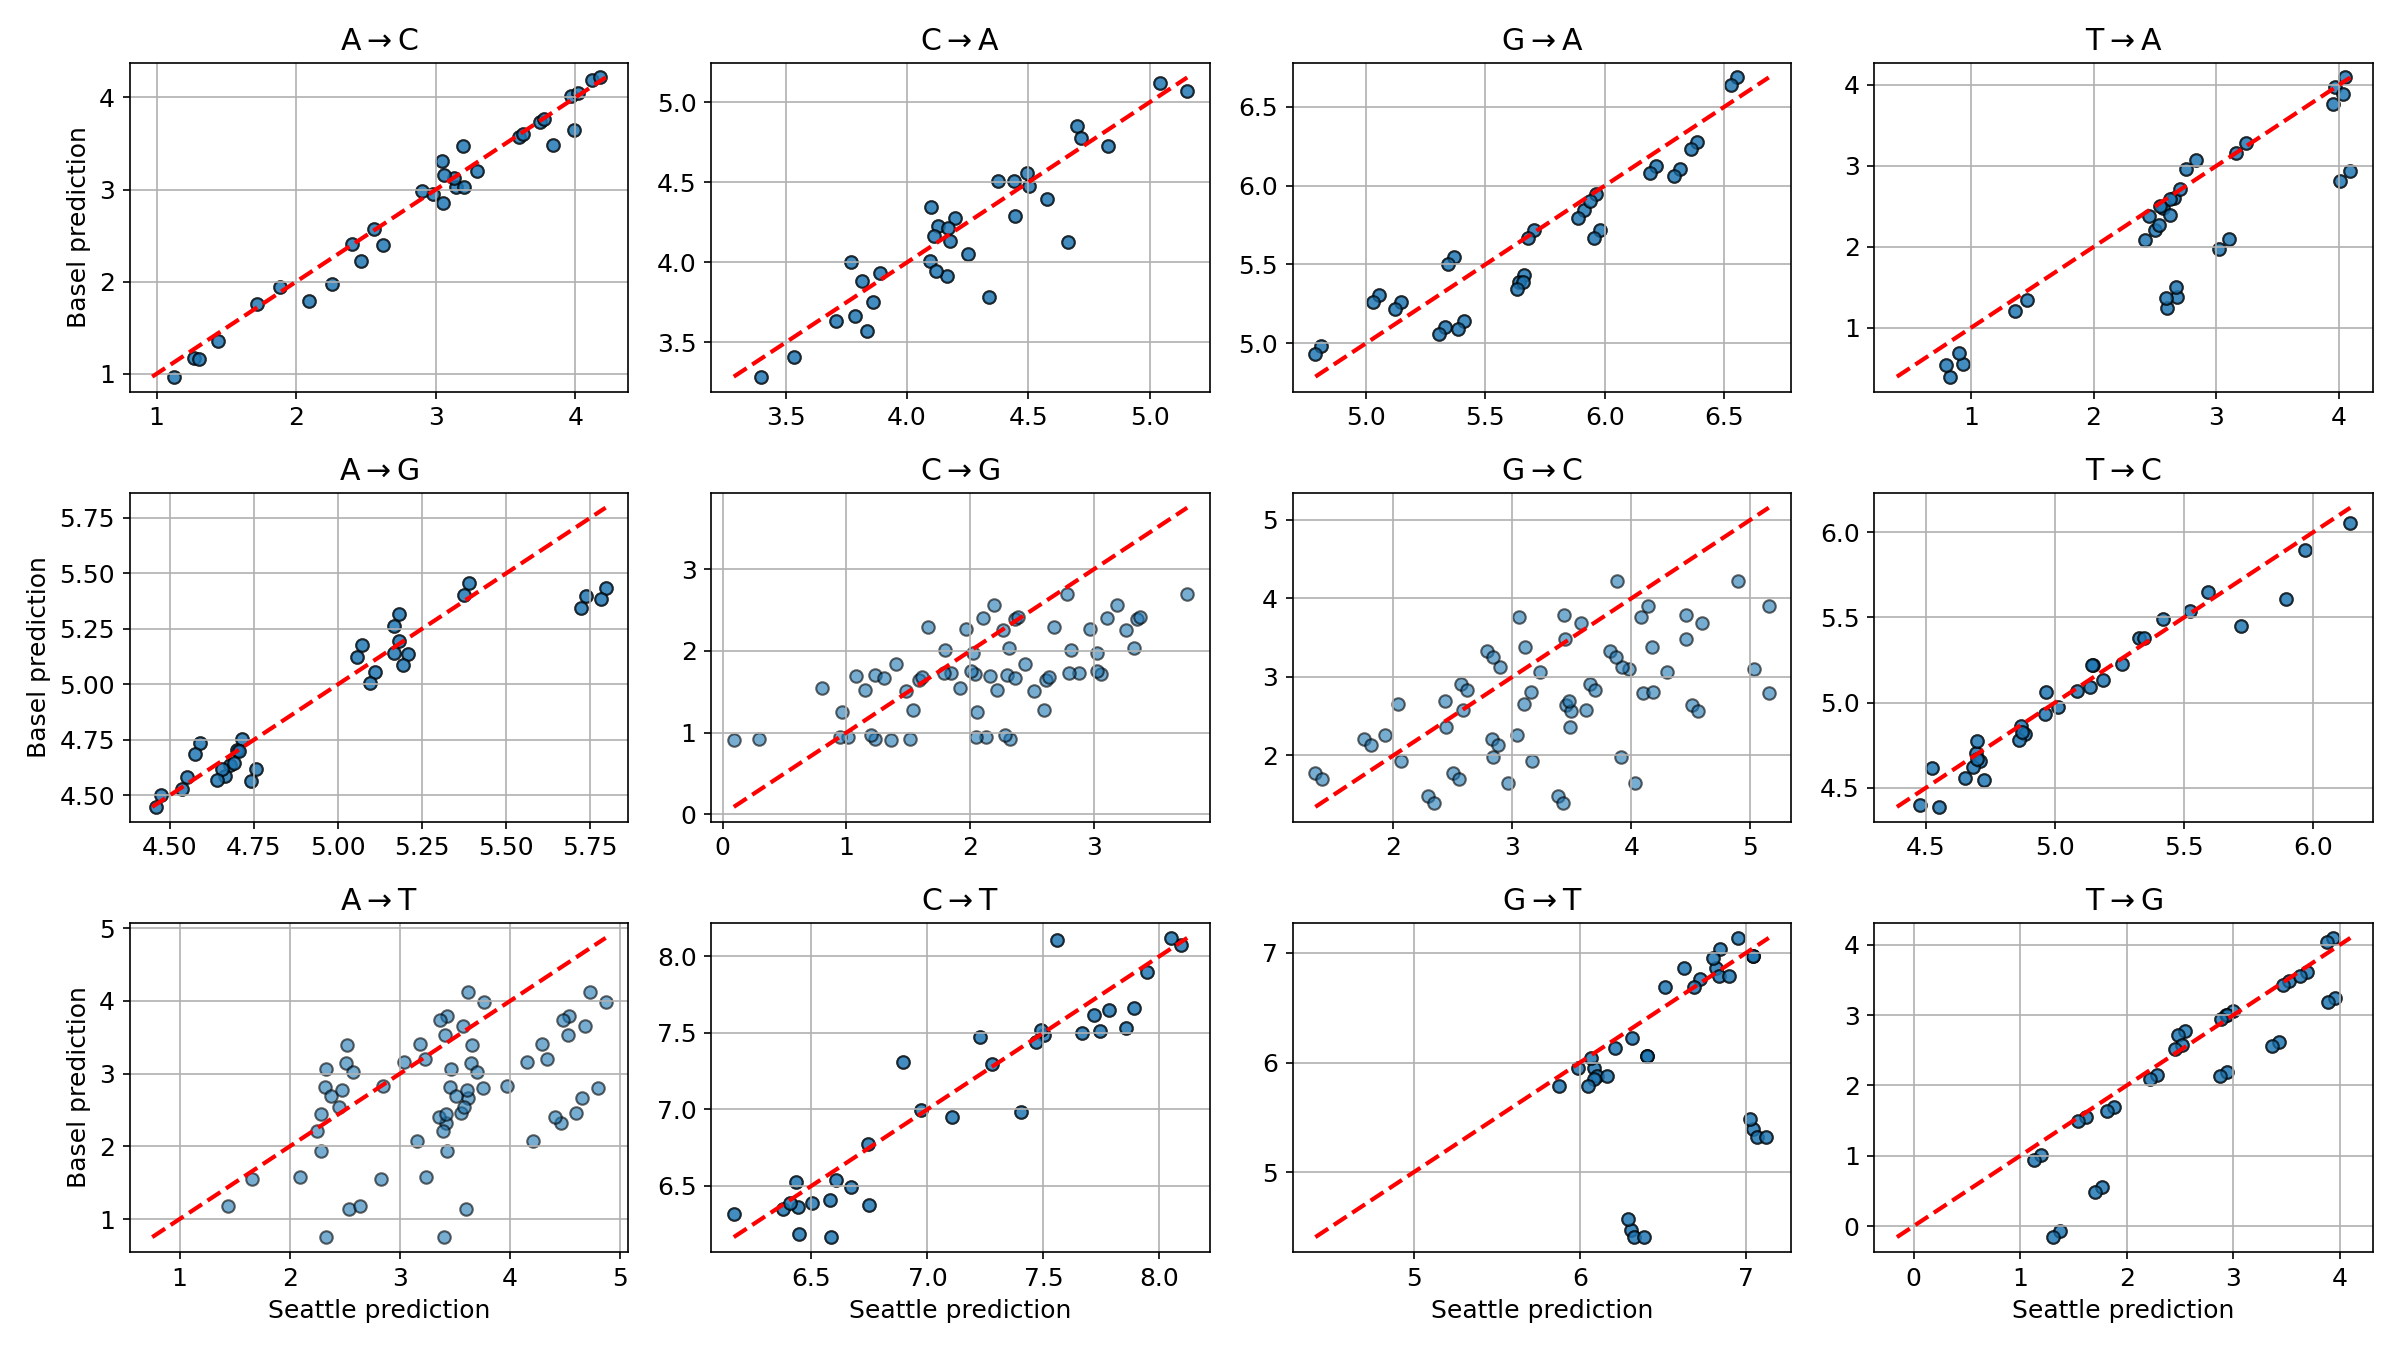
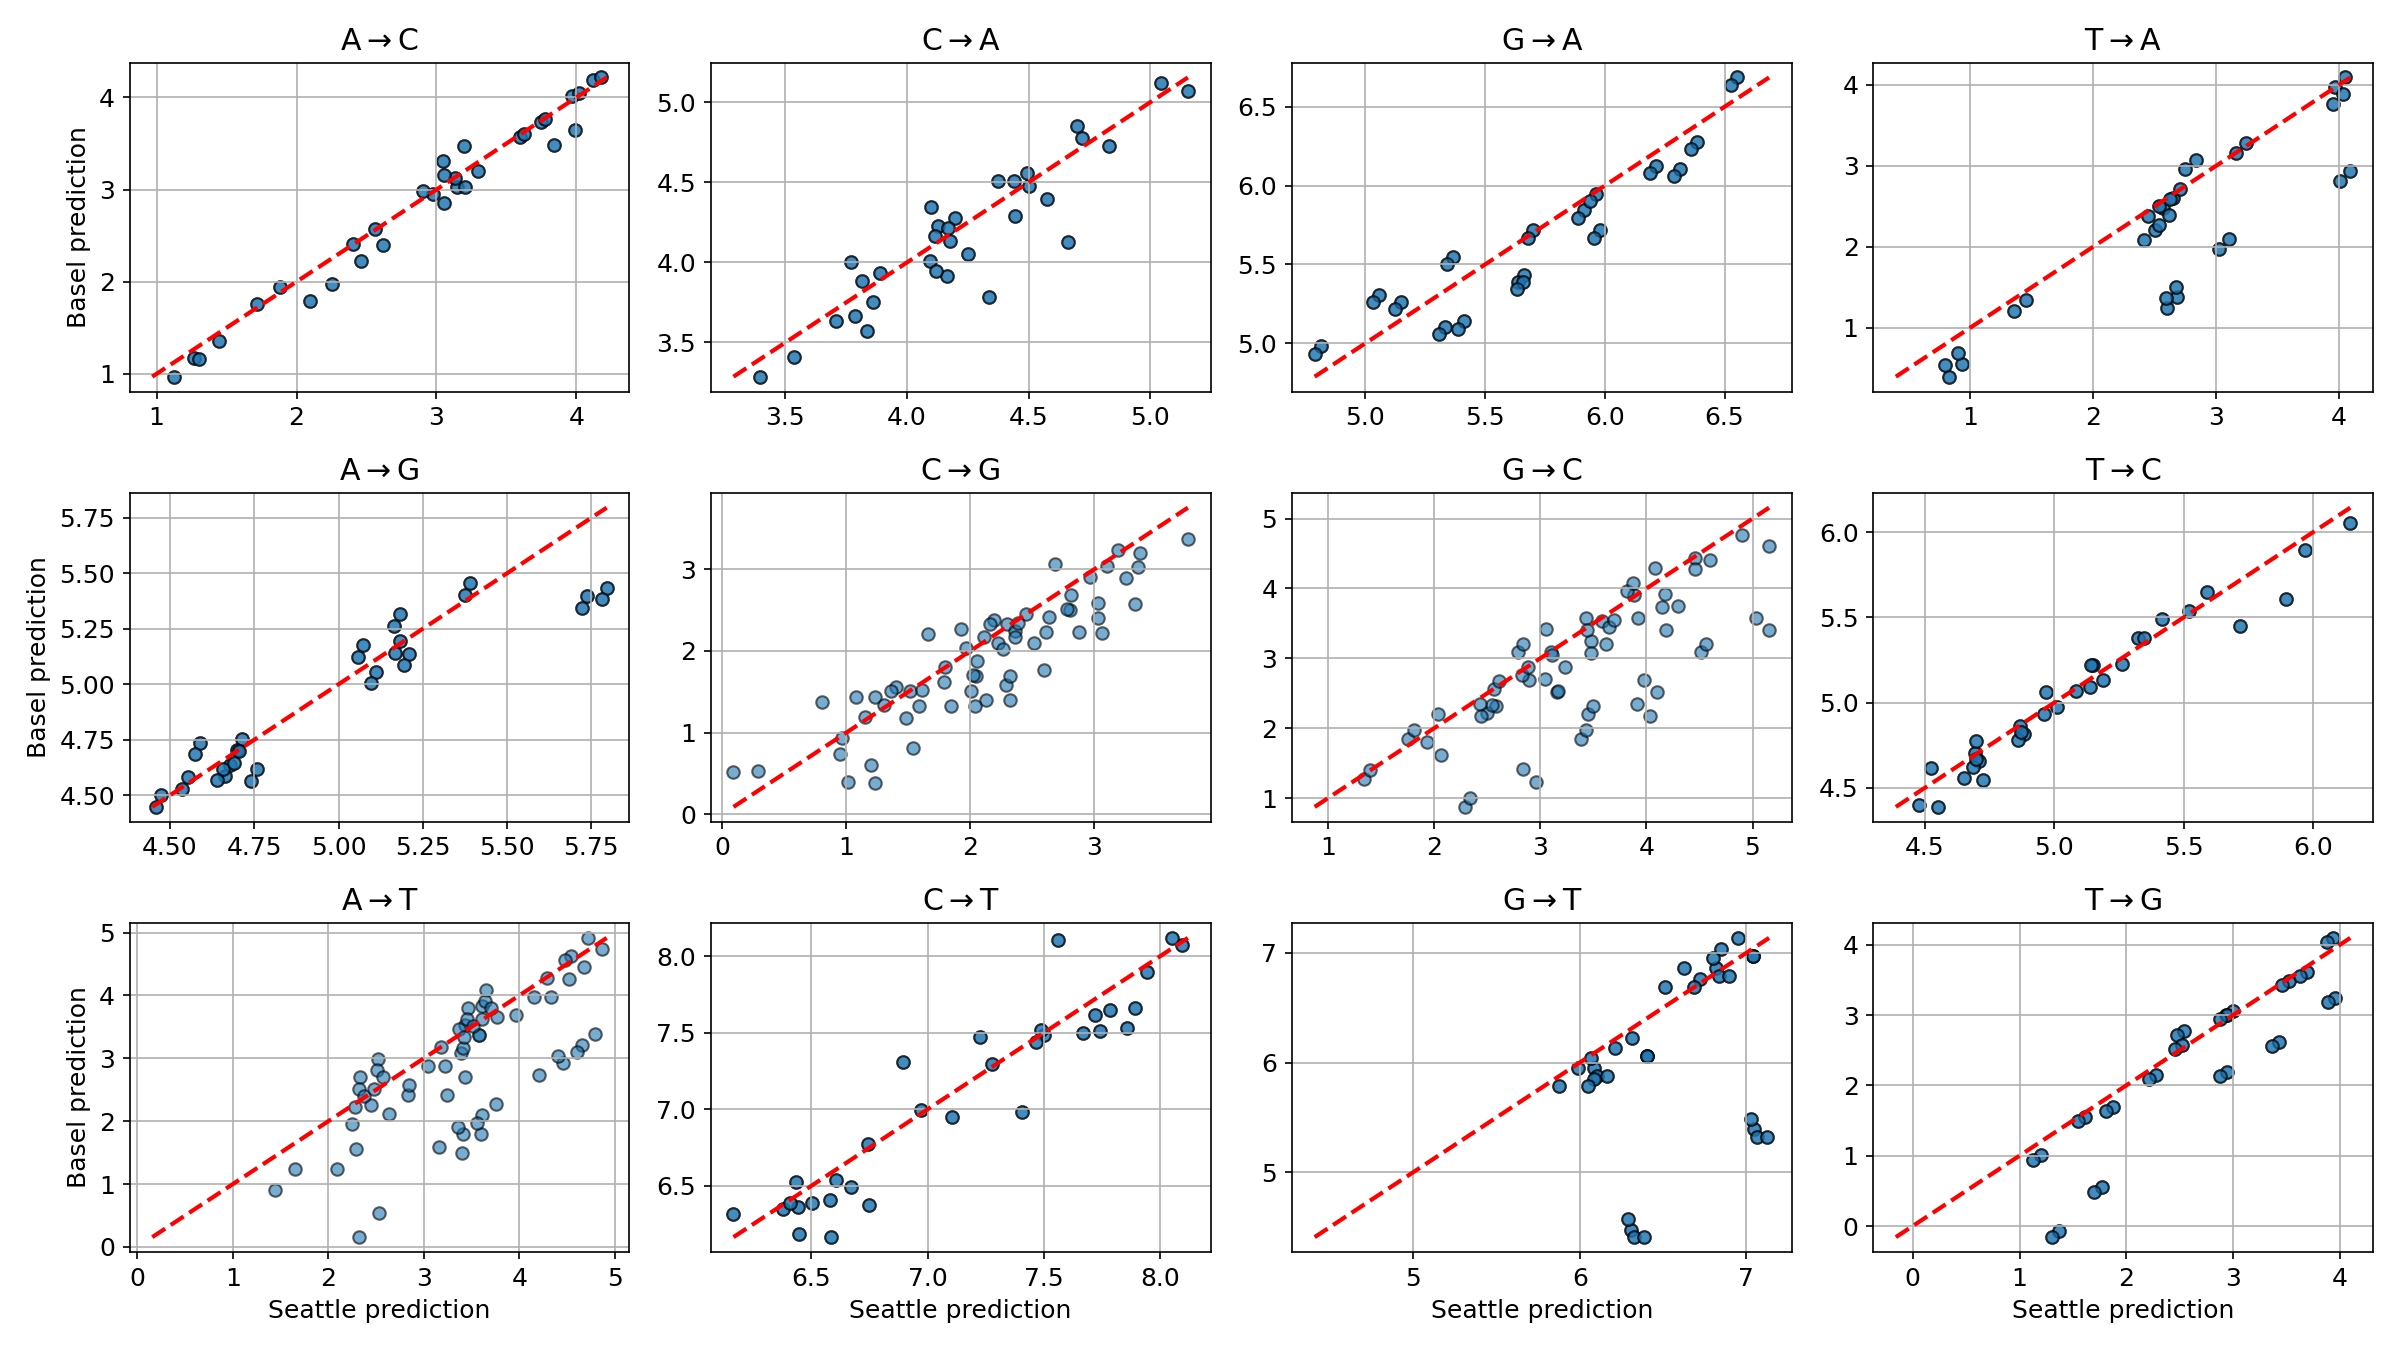
added light switch to Basel model

diff --git a/scripts/basel_model.py b/scripts/basel_model.py
@@ -12,6 +12,8 @@ plot_map = {'AC': (0, 0), 'CA': (0, 1), 'GA': (0, 2), 'TA': (0, 3),
             'AT': (2, 0), 'CT': (2, 1), 'GT': (2, 2), 'TG': (2, 3)
             }
 
+lightswitch_mutations = ['AT', 'CG', 'GC']
+
 
 class BaselModel:
 
@@ -44,7 +46,7 @@ class BaselModel:
             self.W[nt1+nt2] = w
 
         # Plot observed vs. predicted mean log(counts + 0.5) for every context and pairing state
-        self.plot_fit_vs_data(df_train)
+        # self.plot_fit_vs_data(df_train)
 
     def create_data_matrix(self, mut_counts_df):
 
@@ -56,6 +58,17 @@ class BaselModel:
         # Construct columns of data matrix
         base = np.full(len(unpaired), 1)
         columns = [base] + [unpaired] + self.one_hot_l_r(context_l, context_r)
+
+        # Add information for position in the genome for AT, CG, and GC
+        present_mut_type = mut_counts_df.mut_type.unique()[0]
+        if present_mut_type in lightswitch_mutations:
+            if 'site' in mut_counts_df.columns:
+                before_lightswitch = (mut_counts_df.site < 21555).values
+            elif 'nt_mutation' in mut_counts_df.columns:
+                before_lightswitch = (mut_counts_df['nt_mutation'].apply(lambda x: int(x[1:-1])).values < 21555).astype(int)
+            elif 'partition' in mut_counts_df.columns:
+                before_lightswitch = mut_counts_df['partition'].values
+            columns += [before_lightswitch]
 
         # Compile data matrix
         X = np.column_stack(columns)
@@ -84,20 +97,20 @@ class BaselModel:
 
     def predict_log_counts(self, dataframe):
 
-        # Create data matrix
-        X = self.create_data_matrix(dataframe)
-
         # Prepare array to store predicted log counts
-        predicted_log_counts = np.zeros(X.shape[0])
+        predicted_log_counts = np.zeros(len(dataframe))
 
-        # Predict log counts
+        # Get present mutation types
         if 'nt_mutation' in dataframe.columns:
             present_mut_types = dataframe['nt_mutation'].apply(lambda x: x[0] + x[-1])
         else:
             present_mut_types = dataframe['mut_type']
+
+        # Predict log counts for all mutation types
         for mut_type in present_mut_types.unique():
             indices = np.where(present_mut_types == mut_type)
-            predicted_log_counts[indices] = (X[indices] @ self.W[mut_type]).flatten()
+            X = self.create_data_matrix(dataframe.iloc[indices])
+            predicted_log_counts[indices] = (X @ self.W[mut_type]).flatten()
 
         return predicted_log_counts
 

diff --git a/scripts/synonymous_rates.py b/scripts/synonymous_rates.py
@@ -638,8 +638,11 @@ class SynonymousRates:
                 rate = rate_row.prefered_rate
             elif model == 'Basel':
                 # Get one-hot encoding
-                one_hot = [1, 1-basepair] + self.basel_model_full.one_hot_l_r(np.array(left), np.array(right))
-                rate = np.exp((self.basel_model_full.W[mut_type].T@one_hot)[0]) - 0.5
+                if mut_type in ['AT', 'CG', 'GC']:
+                    one_hot = [1, 1 - basepair] + self.basel_model_full.one_hot_l_r(np.array(left), np.array(right)) + [partition]
+                else:
+                    one_hot = [1, 1 - basepair] + self.basel_model_full.one_hot_l_r(np.array(left), np.array(right))
+                rate = np.exp((self.basel_model_full.W[mut_type].T @ one_hot)[0]) - 0.5
 
             data_df = self.mut_train_dfs[mut_type]
             data_row = data_df[
